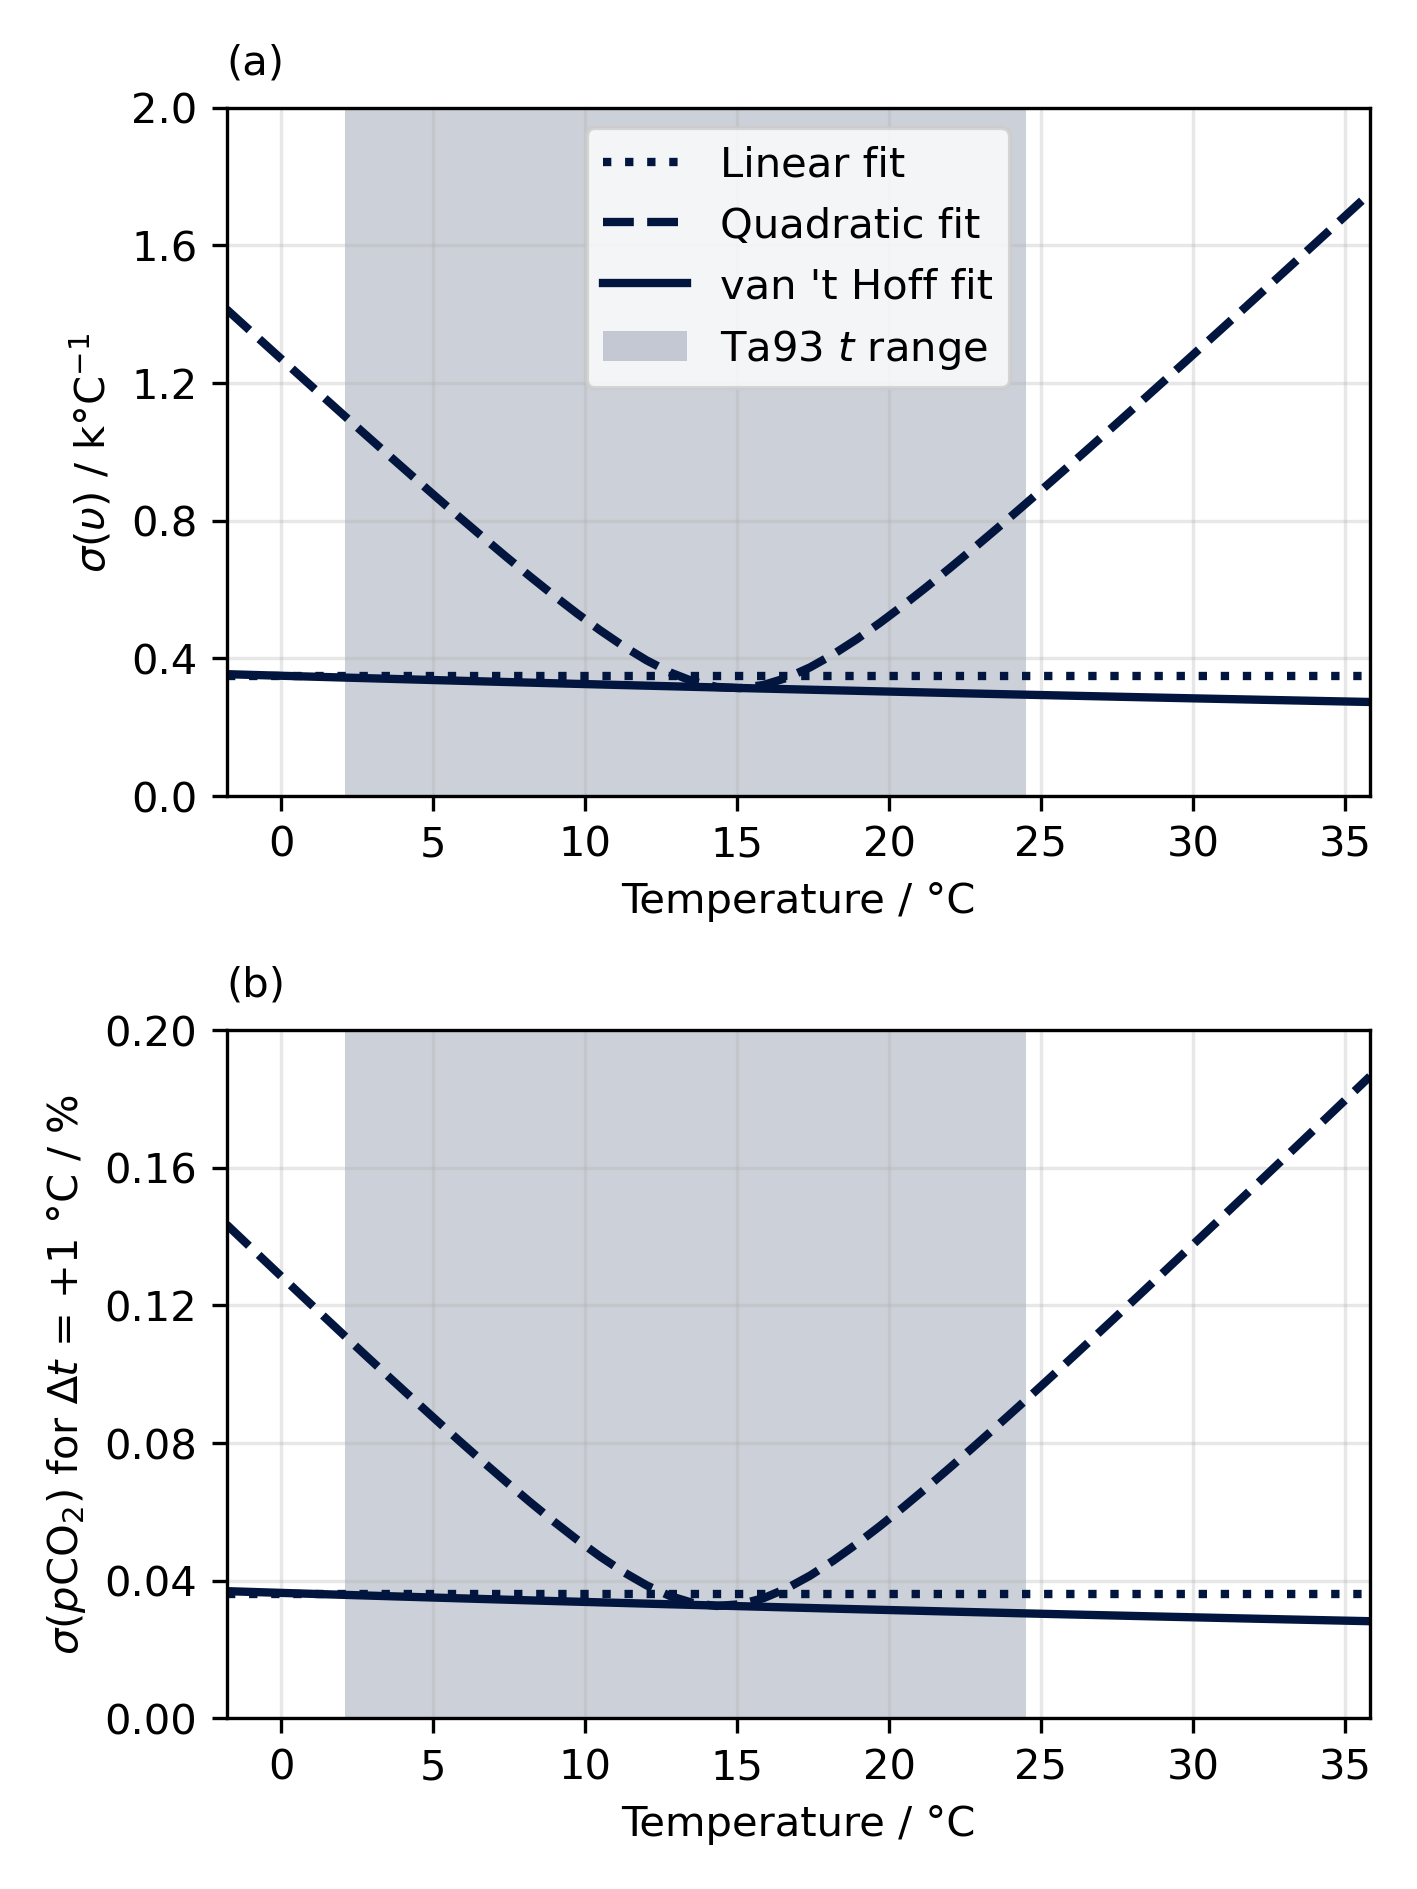
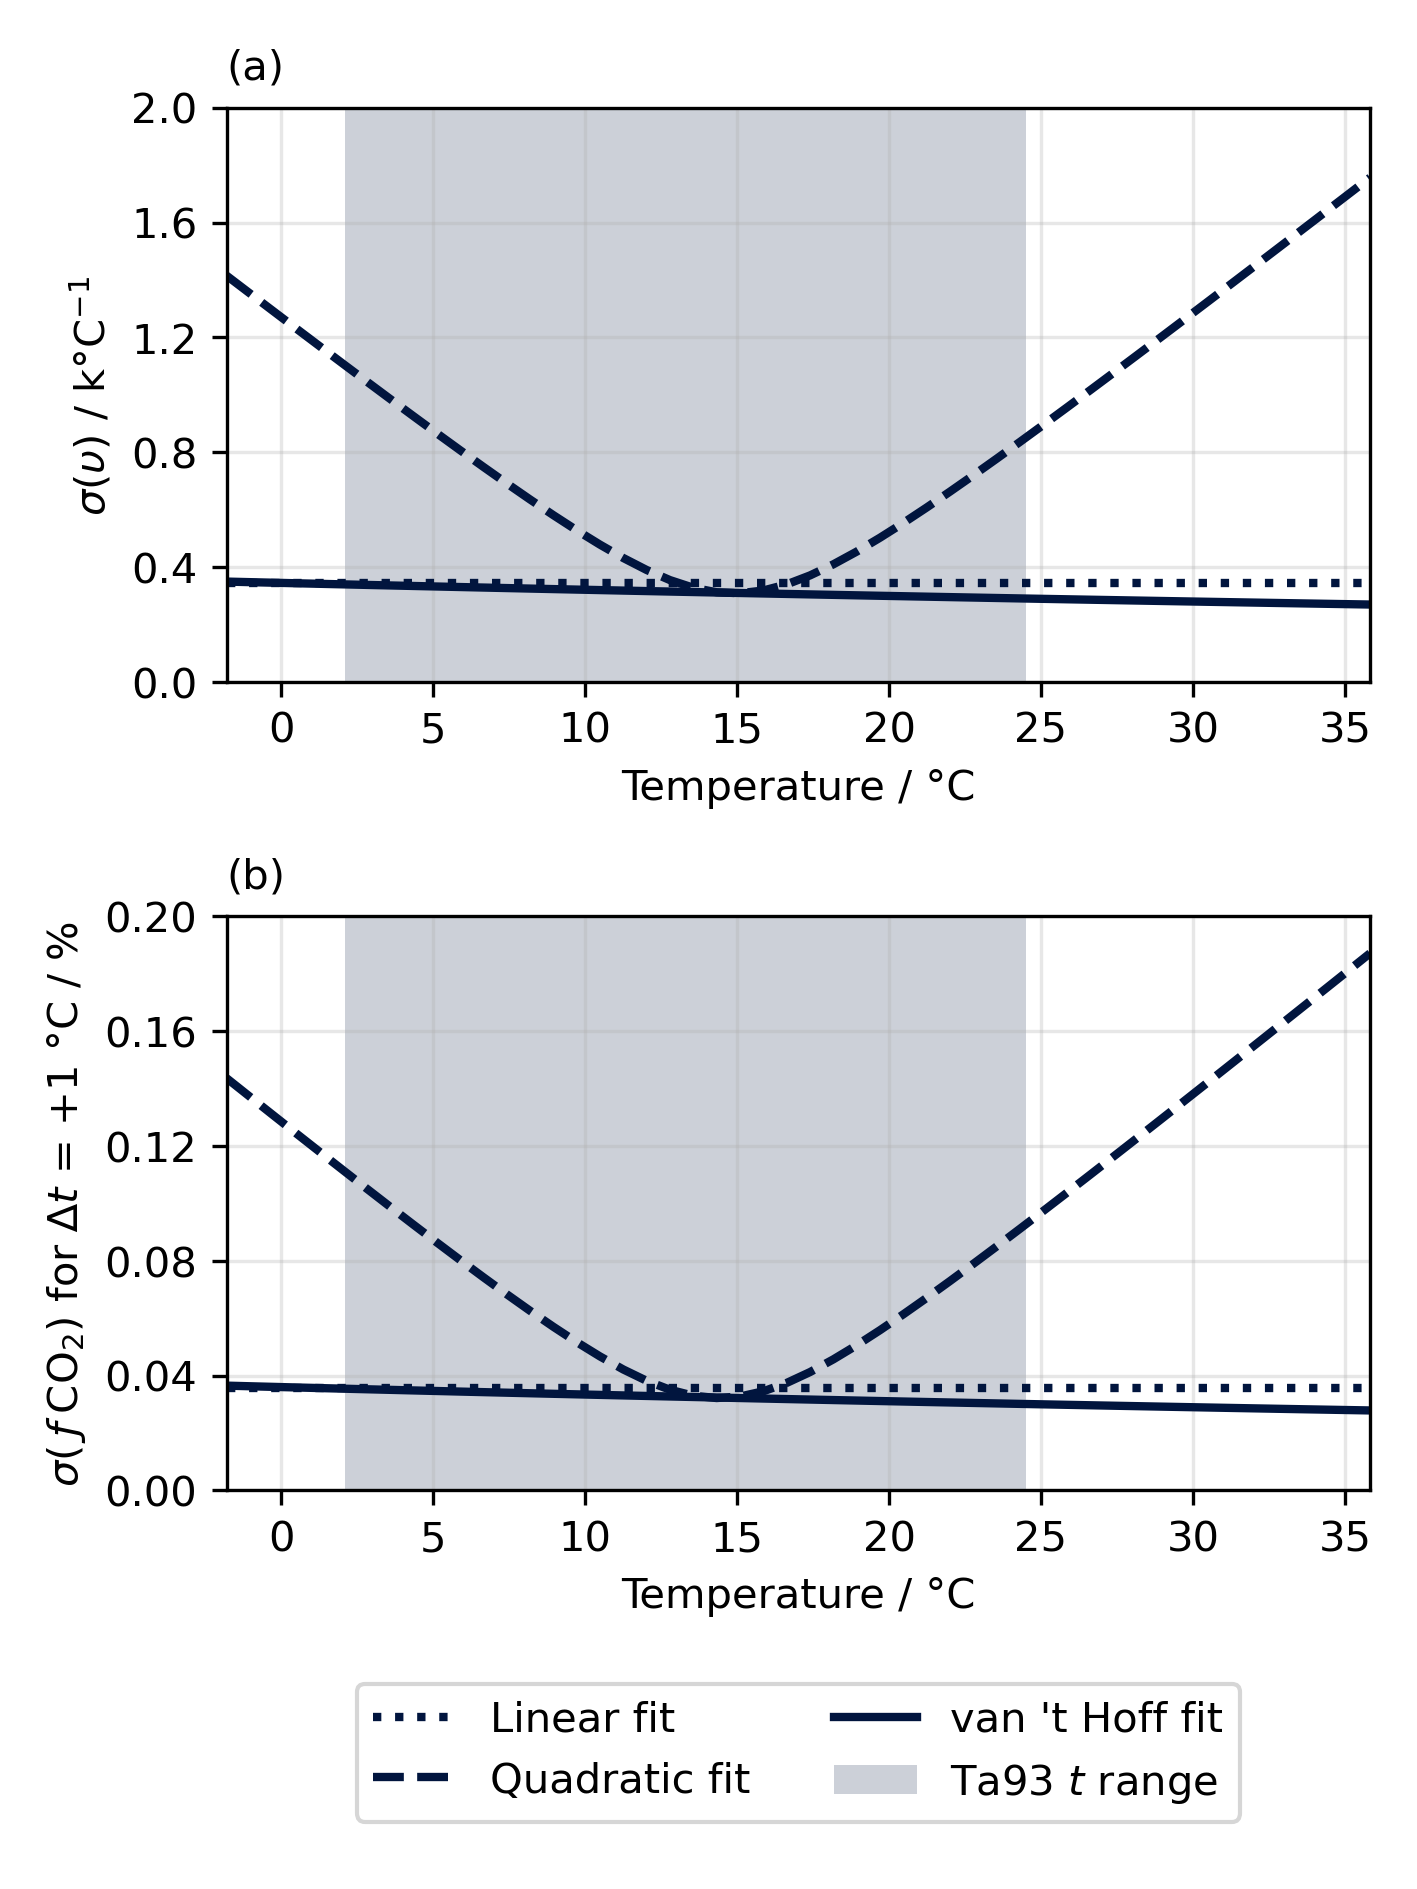
Continue updating figures

diff --git a/figure2.py b/figure2.py
@@ -1,0 +1,181 @@
+from sys import path
+
+pyco2path = "/Users/matthew/github/PyCO2SYS"
+if pyco2path not in path:
+    path.append(pyco2path)
+
+import PyCO2SYS as pyco2
+import pandas as pd
+import numpy as np
+from matplotlib import pyplot as plt
+import pwtools
+
+# Import Wanninkhof et al. (2022) dataset
+wkf = pd.read_excel("data/AOML_All-Data_combined_UW_fCO2_disc_fCO2wCO2Sys.xlsx").rename(
+    columns={
+        "fCO2(20)disc_UATM": "fCO2_d20",
+        "UWfCO2w_situ_UATM": "fCO2_uw",
+        "UW_TSG_Temp_DEG_C": "temperature",
+        "TSG_Salinity": "salinity",
+        "TA_UMOL/KG": "alkalinity",
+        "DIC_UMOL/KG": "dic",
+        "TA/DIC": "ta_dic",
+        "fCO2(20)(TA,DIC)_UATM": "fCO2_12_20",
+        "fCO2(SST)(TA,DIC)_UATM": "fCO2_12_insitu",
+    }
+)
+
+# Fix bugs
+wkf.loc[wkf.fCO2_uw.apply(type) == str, "fCO2_uw"] = np.nan
+wkf["fCO2_uw"] = wkf.fCO2_uw.astype(float)
+
+# Calculate differences
+t0 = 20  # °C --- all fCO2_d20 samples are at 20 °C (this is t0; t1 is the underway)
+wkf["temperature_diff"] = wkf.temperature - t0
+# wkf["fCO2_12_insitu_diff"] = wkf.fCO2_12_insitu - wkf.fCO2_uw
+
+# Correct with PyCO2SYS
+results_15 = pyco2.sys(
+    par1=wkf.fCO2_d20.to_numpy(),
+    par1_type=5,
+    par2=wkf.alkalinity.to_numpy(),
+    par2_type=1,
+    salinity=wkf.salinity.to_numpy(),
+    temperature=t0,
+    temperature_out=wkf.temperature.to_numpy(),
+    opt_k_carbonic=10,
+    opt_total_borate=1,
+)
+wkf["fCO2_calc15"] = results_15["fCO2_out"]
+results_25 = pyco2.sys(
+    par1=wkf.fCO2_d20.to_numpy(),
+    par1_type=5,
+    par2=wkf.dic.to_numpy(),
+    par2_type=2,
+    salinity=wkf.salinity.to_numpy(),
+    temperature=t0,
+    temperature_out=wkf.temperature.to_numpy(),
+    opt_k_carbonic=10,
+    opt_total_borate=1,
+)
+wkf["fCO2_calc25"] = results_25["fCO2_out"]
+
+# %% Calculate the fCO2 adjustment with different methods
+opt_at = [1, 2, 5]
+results = pyco2.sys(
+    par1=wkf.fCO2_d20.to_numpy(),
+    par1_type=5,
+    salinity=wkf.salinity.to_numpy(),
+    temperature=t0,
+    temperature_out=wkf.temperature.to_numpy(),
+    opt_adjust_temperature=np.vstack(opt_at),
+    opt_which_fCO2_insitu=2,
+)
+wkf["fCO2_uw_1"], wkf["fCO2_uw_2"], wkf["fCO2_uw_5"] = results["fCO2_out"]
+
+# Visualise
+fwindow = 4  # °C
+fx = np.linspace(
+    np.min(wkf.temperature_diff) + 0.1, np.max(wkf.temperature_diff) - 0.1, num=100
+)
+fvars = ["fCO2_uw_1", "fCO2_uw_2", "fCO2_uw_5", "fCO2_calc15", "fCO2_calc25"]
+for v in fvars:
+    wkf[v + "_diff"] = wkf[v] - wkf.fCO2_uw
+fy = {v: np.full(fx.size, np.nan) for v in fvars}
+fu = {v: np.full(fx.size, np.nan) for v in fvars}
+fs = np.full(fx.size, np.nan)
+for i in range(len(fx)):
+    L = (
+        (wkf.temperature_diff > fx[i] - fwindow)
+        & (wkf.temperature_diff < fx[i] + fwindow)
+        & wkf.fCO2_uw_1_diff.notnull()
+        & wkf.fCO2_uw_2_diff.notnull()
+        & wkf.fCO2_uw_5_diff.notnull()
+        & (wkf.fCO2_uw_1_diff.abs() < 25)
+    )
+    fs[i] = L.sum()
+    for v in fvars:
+        fy[v][i] = wkf[v + "_diff"][L].mean()
+        fu[v][i] = wkf[v + "_diff"].std() / np.sqrt(fs[i])
+
+# Draw the figure
+fig, ax = plt.subplots(dpi=300, figsize=(12 / 2.54, 13 / 2.54))
+# ax.scatter(
+#     "temperature_diff",
+#     "fCO2_uw_1_diff",
+#     data=wkf,
+#     s=10,
+#     edgecolor="none",
+#     c="xkcd:navy",
+#     alpha=0.2,
+#     label=None,
+# )
+ax.plot(
+    fx,
+    fy["fCO2_uw_1"],
+    c="xkcd:navy",
+    lw=1.5,
+    alpha=0.8,
+    label="$υ_h$ (van 't Hoff, $b_h$ parameterised)",
+)
+ax.plot(
+    fx,
+    fy["fCO2_uw_2"],
+    c="xkcd:azure",
+    lw=1.5,
+    alpha=0.8,
+    label="$υ_h$ (van 't Hoff, $b_h$ fitted to Ta93)",
+)
+ax.plot(
+    fx,
+    fy["fCO2_uw_5"],
+    c="xkcd:strawberry",
+    lw=1.5,
+    alpha=0.8,
+    label="$υ_l$ (Ta93, linear)",
+)
+ax.plot(
+    fx,
+    fy["fCO2_calc15"],
+    c="xkcd:green",
+    lw=1.5,
+    alpha=0.8,
+    label=r"$υ_\mathrm{Lu00}$ (PyCO2SYS, with $A_\mathrm{T}$ or $T_\mathrm{C}$)",
+)
+# ax.plot(
+#     fx,
+#     fy["fCO2_calc15"],
+#     c="xkcd:purple",
+#     lw=1.5,
+#     alpha=0.8,
+#     label=r"$υ_\mathrm{Lu00}$ (PyCO2SYS, with $T_\mathrm{C}$)",
+# )
+ax.fill_between(
+    fx,
+    -2 * fu["fCO2_uw_1"],
+    2 * fu["fCO2_uw_1"],
+    color="xkcd:navy",
+    edgecolor="none",
+    alpha=0.3,
+    label="2$σ$ uncertainty in rolling mean",
+)
+ax.axhline(0, c="k", lw=0.8, zorder=-1)
+ax.set_ylim([-10, 10])
+ax.set_xticks(np.arange(-20, 15, 5))
+ax.set_xlim([-20, 11.3])
+ax.set_xlabel("∆$t$ / °C")
+ax.tick_params(top=True, labeltop=False)
+for t in np.arange(0, 35, 5):
+    ax.text(t - 20, 11, "{}".format(t), ha="center", va="bottom")
+ax.text(0.5, 1.16, "$t_1$ / °C", ha="center", va="bottom", transform=ax.transAxes)
+ax.grid(alpha=0.2)
+ax.set_ylabel(
+    "[{sp}{f}CO$_2$($t_1$) – {f}CO$_2$(20 °C)] / µatm".format(
+        sp=pwtools.thinspace, f=pwtools.f
+    )
+)
+ax.legend(
+    loc="upper center", bbox_to_anchor=(0.5, -0.25), edgecolor="k", ncol=1, fontsize=9
+)
+fig.tight_layout()
+fig.savefig("figures_final/figure2.png")

diff --git a/figure3.py b/figure3.py
@@ -12,42 +12,45 @@ import pwtools
 # Initialise random number generator
 rng = np.random.default_rng(1)
 
-# Determine settings
-n_reps = int(1e6)  # use 1e6 for the manuscript --- takes about 10 minutes
-n_meas = len(t93.pCO2)
+# %% Determine settings
+n_reps = int(1e4)  # use 1e6 for the manuscript --- takes about 10 minutes
 opt_k_carbonic = 10
 opt_total_borate = 1
+fCO2 = t93.get_fCO2(opt_k_carbonic, opt_total_borate)
+n_meas = len(fCO2)
 
 # Define uncertainties
-u_pCO2_random = 2  # µatm
-u_pCO2_bias = 2  # µatm
+u_fCO2_random = 2  # µatm
+u_fCO2_bias = 2  # µatm
 u_temperature_random = 0.01  # °C
 u_temperature_bias = 0.005  # °C
 
 # Initialise simulated fields ----------------------------------------- NEEDS UPDATING?
 sim_temperature = t93.temperature * np.ones((n_reps, 1))
-sim_pCO2 = t93.pCO2 * np.ones((n_reps, 1))
-# sim_pCO2 = np.exp(pwtools.get_lnpCO2_vh((pwtools.bh_best, pwtools.ch_best), sim_temperature))
+sim_fCO2 = fCO2 * np.ones((n_reps, 1))
+# sim_fCO2 = np.exp(
+#     pwtools.get_lnfCO2_vh((pwtools.bh_best, pwtools.ch_best), sim_temperature)
+# )
 
 # Generate and add uncertainties (comment lines out to omit the corresponding terms)
-sim_pCO2 += rng.normal(loc=0, scale=u_pCO2_random, size=(n_reps, n_meas))
-sim_pCO2 += rng.normal(loc=0, scale=u_pCO2_bias, size=(n_reps, 1))
+sim_fCO2 += rng.normal(loc=0, scale=u_fCO2_random, size=(n_reps, n_meas))
+sim_fCO2 += rng.normal(loc=0, scale=u_fCO2_bias, size=(n_reps, 1))
 sim_temperature += rng.uniform(
     low=-u_temperature_random / 2, high=u_temperature_random / 2, size=(n_reps, n_meas)
 )
 sim_temperature += rng.normal(loc=0, scale=u_temperature_bias, size=(n_reps, 1))
 
 # Make fits
-sim_lnpCO2 = np.log(sim_pCO2)
+sim_lnfCO2 = np.log(sim_fCO2)
 fit_l_bc = np.full((n_reps, 2), np.nan)
 fit_q_abc = np.full((n_reps, 3), np.nan)
 fit_h_bc = np.full((n_reps, 2), np.nan)
 for i in range(n_reps):
     if i % 1000 == 0:
-        print(i, n_reps)
-    fit_l_bc[i] = np.polyfit(sim_temperature[i], sim_lnpCO2[i], 1)
-    fit_q_abc[i] = np.polyfit(sim_temperature[i], sim_lnpCO2[i], 2)
-    fit_h_bc[i] = pwtools.fit_pCO2_vh(sim_temperature[i], sim_lnpCO2[i])["x"]
+        print(i, "/", n_reps)
+    fit_l_bc[i] = np.polyfit(sim_temperature[i], sim_lnfCO2[i], 1)
+    fit_q_abc[i] = np.polyfit(sim_temperature[i], sim_lnfCO2[i], 2)
+    fit_h_bc[i] = pwtools.fit_fCO2_vh(sim_temperature[i], sim_lnfCO2[i])["x"]
 
 # Get fit statistics
 sim_bl = fit_l_bc[:, 0]
@@ -162,7 +165,6 @@ ax.fill_betweenx(
 ax.set_ylabel("$σ(υ)$ / k°C$^{-1}$")
 ax.set_yticks(np.arange(0, 3, 0.4))
 ax.set_ylim([0, 2])
-ax.legend(loc="upper center")
 
 ax = axs[1]
 ax.text(0, 1.05, "(b)", transform=ax.transAxes)
@@ -179,9 +181,14 @@ ax.fill_betweenx(
     alpha=0.2,
     label="Ta93 $t$ range",
 )
-ax.set_ylabel("$σ$($p$CO$_2$) for ∆$t$ = ${:+}$ °C / %".format(f_dt))
+ax.set_ylabel(
+    "$σ$({sp}{f}CO$_2$) for ∆$t$ = ${dt:+}$ °C / %".format(
+        dt=f_dt, sp=pwtools.thinspace, f=pwtools.f
+    )
+)
 ax.set_yticks(np.arange(0, 0.3, 0.04))
 ax.set_ylim([0, 0.2])
+ax.legend(loc="upper center", bbox_to_anchor=(0.5, -0.3), ncol=2, edgecolor="k")
 
 for ax in axs:
     ax.set_xlabel("Temperature / °C")
@@ -189,4 +196,4 @@ for ax in axs:
     ax.set_xlim(f_t_soda[[0, -1]])
     ax.grid(alpha=0.3)
 fig.tight_layout()
-fig.savefig("figures/simulate.png")
+fig.savefig("figures_final/figure3.png")

diff --git a/fitting.py b/fitting.py
@@ -29,7 +29,6 @@ bh_std = np.sqrt(fit_vh_curve[1][0][0])
 fit_vht = pwtools.fit_fCO2_vht(t93.temperature, np.log(fCO2))
 fit_vht_pCO2 = pwtools.fit_fCO2_vht(t93.temperature, np.log(t93.pCO2))
 
-
 # Just a 1:1 plot
 ft = np.linspace(-1.8, 35.83)
 fig, ax = plt.subplots(dpi=300)

diff --git a/f14_wanninkhof.py b/f14_wanninkhof.py
@@ -1,3 +1,10 @@
+from sys import path
+
+pyco2path = "/Users/matthew/github/PyCO2SYS"
+if pyco2path not in path:
+    path.append(pyco2path)
+
+import PyCO2SYS as pyco2
 import pandas as pd
 import numpy as np
 from scipy.optimize import least_squares

diff --git a/pwtools.py b/pwtools.py
@@ -2,7 +2,7 @@ from autograd import grad, jacobian
 from scipy.optimize import least_squares, curve_fit
 import numpy as np
 
-Rgas = 8.31446261815324
+Rgas = 8.314462618
 tzero = 273.15
 okc_codes = {
     1: "Ro93",
